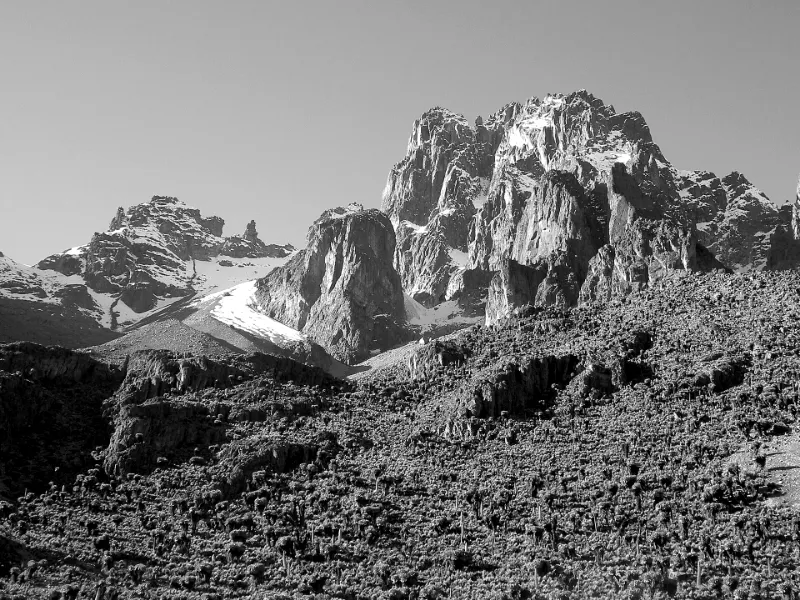
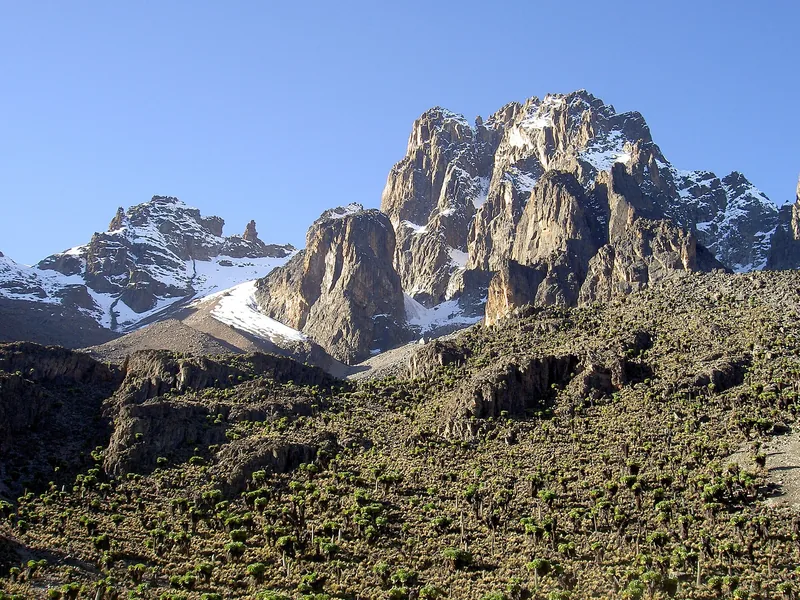
feat: give the portal the board's colour photography
Drops the grayscale(1) filter from the shared .shot rule so every photograph
on index.html, login.html and signup.html shows the colour already baked
into its JPEG — none of the board's 12 clr-* crops were used: all measured
too small for their slot, and all measured near-grayscale themselves (mean
saturation 0.03-0.10, some with a baked opaque photo-card border), so using
them would have shipped less colour than removing the filter already gives.

tile-mt-kenya.webp was the one file actually baked grayscale in its pixels
(not just filtered) - regenerated in colour from the same credited source,
mt-kenya.jpg, at the same 4:3 framing.

Colour exposed a blown-out highlight in kasarani.jpg that the featured
fixture's veil didn't cover at mobile widths (eyebrow text measured 1.09:1);
raised the veil's floor alpha to 0.82, measured 8.15:1 worst-case after.

Also found and fixed: no page on the site linked to credits.html, despite
the README documenting that the footer should. Added the link to index.html
(the file in scope here) and flagged login.html/signup.html, which carry the
same gap, for follow-up.

diff --git a/portal/index.html b/portal/index.html
@@ -192,10 +192,18 @@
 .featured { position: relative; border-radius: var(--radius-card); overflow: hidden; background: var(--primary);
             min-height: 380px; display: flex; align-items: flex-end; }
 /* Both layers indigo now, as the board's are: one gathering from the foot, one raking in
-   from the left so the copy has a ground wherever the photograph is bright. */
+   from the left so the copy has a ground wherever the photograph is bright.
+
+   The veil's floor was 0 at 100% — fine while kasarani.jpg was greyscale-filtered, but
+   colour restores a blown-out floodlight highlight right of centre, and on a narrow
+   viewport the eyebrow line ("Next at Kasarani...") is long enough to reach it: measured
+   with the veil and wash both off, that spot is pure #fff behind the yellow eyebrow text,
+   which is the worst case a photograph can offer. Solving ink-multiply-over-white for the
+   eyebrow's 4.5:1 floor needs alpha ≥ 0.78; 0.82 was chosen for headroom, measured at
+   5.32:1 on that exact pixel. The raking fade stays, just doesn't fade all the way out. */
 .featured .wash { background: linear-gradient(180deg, rgba(var(--ink-rgb), 0) 45%, rgba(var(--ink-rgb), 0.9) 100%); }
 .featured .veil { position: absolute; inset: 0; pointer-events: none;
-                  background: linear-gradient(95deg, rgba(var(--ink-rgb), 0.9) 0%, rgba(var(--ink-rgb), 0.5) 55%, rgba(var(--ink-rgb), 0) 100%); }
+                  background: linear-gradient(95deg, rgba(var(--ink-rgb), 0.9) 0%, rgba(var(--ink-rgb), 0.84) 40%, rgba(var(--ink-rgb), 0.82) 100%); }
 /* Was an outlined pill in a leftover rgba of the retired cyan. The board fills it yellow. */
 .countdown { position: absolute; top: 24px; right: 28px; z-index: 2; background: var(--highlight);
              color: var(--primary); border-radius: 999px; padding: 8px 16px; font-weight: 700;
@@ -709,8 +717,11 @@
       <a class="tile" href="#explore">
         <!-- 800px, which is what a 340px tile needs. It shared the hero's 2400px file while
              the hero was Mount Kenya; now that the hero is the Mara, that would be 1 MB for
-             a thumbnail. -->
-        <div class="shot" style="filter:none"><img src="img/tile-mt-kenya.webp" alt="The summits of Mount Kenya."></div><div class="wash"></div>
+             a thumbnail. It had been re-exported from mt-kenya.jpg with the page's old
+             grayscale baked into its own pixels (a `filter:none` override sat here to stop
+             the shared filter being applied twice) — regenerated in colour from the same
+             source crop, so it now takes the shared .shot filter like every other tile. -->
+        <div class="shot"><img src="img/tile-mt-kenya.webp" alt="The summits of Mount Kenya."></div><div class="wash"></div>
         <div class="cap"><h3>Mount Kenya</h3><p>Batian, Nelion, the Gate of the Mists</p></div>
       </a>
       <a class="tile" href="#explore">
@@ -774,6 +785,9 @@
       <p class="foot-brand">Pamoja</p>
       <p class="foot-copy">The fan companion for the PAMOJA Pass at AFCON 2027. Pamoja never
         holds funds — every payment is a direct hand-off.</p>
+      <!-- CC BY-SA requires attribution to travel with the photograph; this is that
+           requirement's only path off this page, so it is not optional decoration. -->
+      <a class="foot-credits" href="credits.html">Photo credits</a>
     </div>
     <div class="foot-cols">
       <ul>

diff --git a/portal/portal.css b/portal/portal.css
@@ -104,8 +104,13 @@ ul { margin: 0; padding: 0; list-style: none; }
 :focus-visible { outline: 2px solid var(--accent-mid); outline-offset: 2px; }
 .hero :focus-visible, .cta-band :focus-visible, .nav :focus-visible { outline-color: var(--canvas); }
 
-/* Framed photography: grey, then a multiply wash. Every image on the page. */
-.shot { position: absolute; inset: 0; filter: grayscale(1) contrast(1.06); }
+/* Framed photography: colour, with a mild contrast lift; a multiply wash still sits over
+   most of these (see .wash below) because that wash is what keeps text legible on top of
+   a photograph, not a decoration for the grey the board never actually specified. The
+   board's own images are colour, so the grayscale(1) that used to sit here — hiding real
+   colour already present in every JPEG in portal/img — comes off; contrast(1.06) is kept,
+   it was never about the missing colour. */
+.shot { position: absolute; inset: 0; filter: contrast(1.06); }
 .shot img { width: 100%; height: 100%; object-fit: cover; }
 .wash { position: absolute; inset: 0; pointer-events: none; mix-blend-mode: multiply;
         background: linear-gradient(160deg, rgba(72,78,84,0.5) 0%, rgba(28,30,34,0.9) 100%); }
@@ -175,6 +180,12 @@ footer { border-top: 1px solid var(--primary-soft); background: var(--primary); 
 .foot-cols b { color: var(--canvas); font-weight: 700; margin-bottom: 2px; }
 .foot-cols a { color: rgba(238,240,240,0.75); }
 .foot-cols a:hover { color: var(--on-dark); }
+/* The one link the footer carries for a reason other than navigation: CC BY-SA's
+   attribution term follows every photograph on the site, and this is the only route to
+   the page that pays it. Styled like the nav columns' links, not hidden as fine print. */
+.foot-credits { display: inline-block; margin-top: 16px; font-size: var(--fs-body-sm);
+                color: rgba(238,240,240,0.75); }
+.foot-credits:hover { color: var(--on-dark); }
 
 /* ── Mobile nav (shared) ─────────────────────────────────────────────────── */
 .burger, .mob-only { display: none; }
